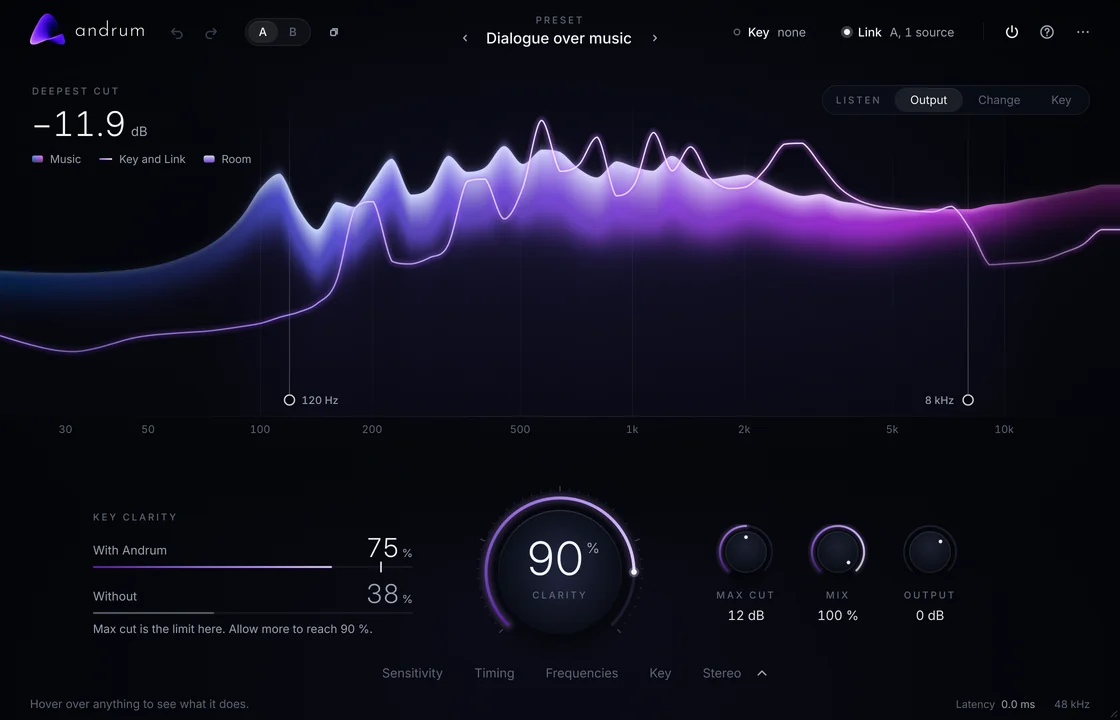
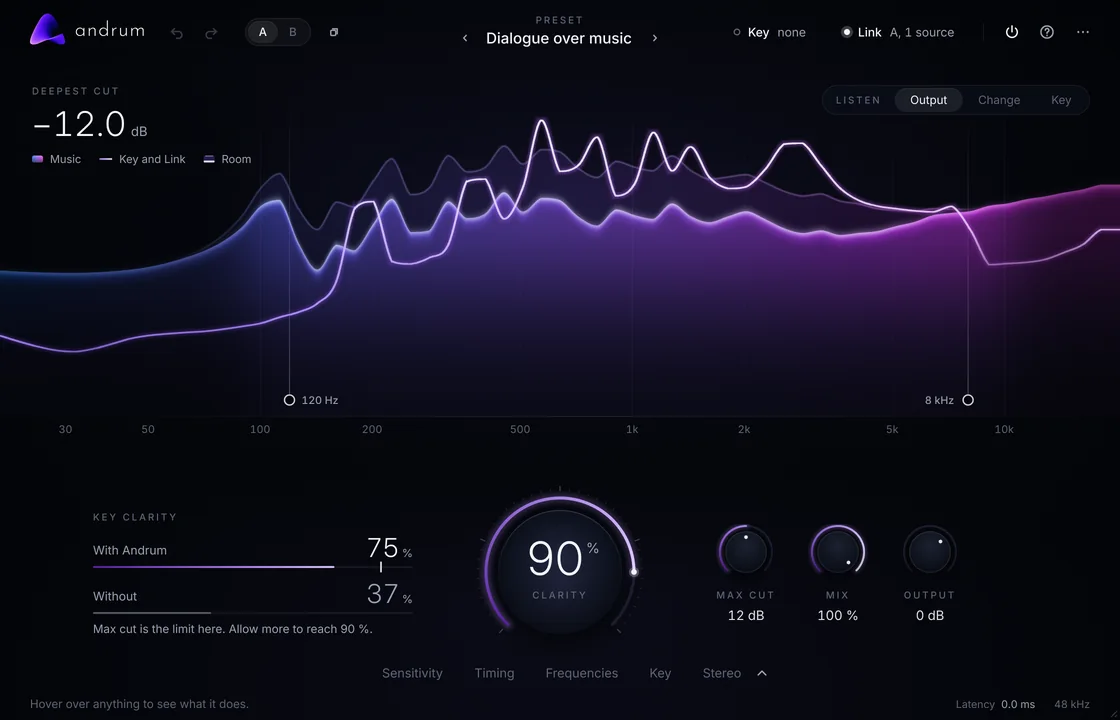
Andrum's pictures in the new picture (for 1.10; not live until its pull request)
The five pictures of the window on the product page, made again from the 1.10 window with its
new picture, and their descriptions. The downloads, the version and the measured numbers follow
when the 1.10 build exists.

Claude-Session: https://claude.ai/code/session_01QFPatT3QnReXh8WDZbFfZC

diff --git a/andrum/index.html b/andrum/index.html
@@ -147,7 +147,7 @@
         <p>Two bars show how clear the voice is with Andrum and without it, so you see what you get for what you give up. There are no thresholds, ratios or bands to set. And when the voice already comes through, the music is left alone.</p>
       </div>
       <figure class="shot shot--low">
-        <img src="assets/img/p-dial-1120.webp" srcset="assets/img/p-dial-1120.webp 1120w, assets/img/p-dial-2240.webp 2240w" sizes="(min-width: 1240px) 1160px, 100vw" width="2240" height="510" loading="lazy" alt="The lower half of Andrum's window: Key Clarity reads 73 % with Andrum and 67 % without, beside the Clarity dial at 80 % and the Max cut, Mix and Output knobs.">
+        <img src="assets/img/p-dial-1120.webp" srcset="assets/img/p-dial-1120.webp 1120w, assets/img/p-dial-2240.webp 2240w" sizes="(min-width: 1240px) 1160px, 100vw" width="2240" height="510" loading="lazy" alt="The lower half of Andrum's window: Key Clarity reads 76 % with Andrum and 65 % without, beside the Clarity dial at 80 % and the Max cut, Mix and Output knobs.">
       </figure>
     </div>
   </section>
@@ -177,7 +177,7 @@
           <figcaption>On the dialogue: it sends, changes nothing on its own track, and says that one Andrum is making room.</figcaption>
         </figure>
         <figure class="shot">
-          <img src="assets/img/p-window-music-1120.webp" srcset="assets/img/p-window-music-1120.webp 1120w, assets/img/p-window-music-2240.webp 2240w" sizes="(min-width: 1240px) 566px, (min-width: 860px) 46vw, 100vw" width="2240" height="1440" loading="lazy" alt="Andrum on the music track, linked: the preset Dialogue over music, Link A with one source, and the dialogue 75 % clear with Andrum against 38 % without.">
+          <img src="assets/img/p-window-music-1120.webp" srcset="assets/img/p-window-music-1120.webp 1120w, assets/img/p-window-music-2240.webp 2240w" sizes="(min-width: 1240px) 566px, (min-width: 860px) 46vw, 100vw" width="2240" height="1440" loading="lazy" alt="Andrum on the music track, linked: the preset Dialogue over music, Link A with one source, and the dialogue 75 % clear with Andrum against 37 % without.">
           <figcaption>On the music: the dialogue is 75&nbsp;% clear with Andrum, 38&nbsp;% without.</figcaption>
         </figure>
       </div>
@@ -198,7 +198,7 @@
         <div><dt>The width stays</dt><dd>Linked, Left and Right, or Mid and Side: let the centre make room while the sides stay wide.</dd></div>
       </dl>
       <figure class="shot shot--window">
-        <img src="assets/img/p-window-vocal-1120.webp" srcset="assets/img/p-window-vocal-1120.webp 1120w, assets/img/p-window-vocal-2240.webp 2240w" sizes="(min-width: 1240px) 1160px, 100vw" width="2240" height="1440" loading="lazy" alt="Andrum's window with the preset Vocal over pad: the music lit from blue to pink, the voice as a fine line through it, the room Andrum makes lit above the music, and the Clarity dial at 80 %.">
+        <img src="assets/img/p-window-vocal-1120.webp" srcset="assets/img/p-window-vocal-1120.webp 1120w, assets/img/p-window-vocal-2240.webp 2240w" sizes="(min-width: 1240px) 1160px, 100vw" width="2240" height="1440" loading="lazy" alt="Andrum's window with the preset Vocal over pad: the music lit from blue to pink, stepping down where Andrum makes room, the voice as a bright line above it, and the Clarity dial at 80 %.">
         <figcaption>Andrum’s window. Hover over anything in it and it tells you what it does, and switch Listen to Change to hear only what Andrum takes away.</figcaption>
       </figure>
     </div>
